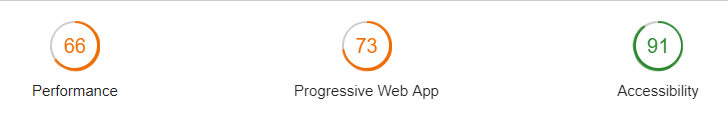
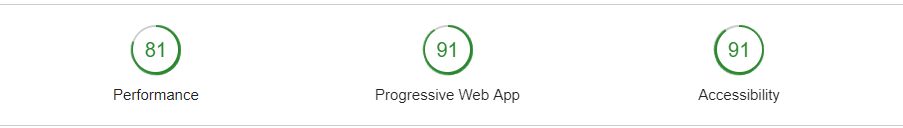
add lazyload

diff --git a/app/restaurant.html b/app/restaurant.html
@@ -5,6 +5,7 @@
   <!-- Meta tags -->
   <meta charset="utf-8">
   <meta name="viewport" content="width=device-width, initial-scale=1.0">
+  <meta name="description" content="Website about Mobile Web Specialist">
   <meta name="theme-color" content="#333"/>
   <link rel="manifest" href="manifest.json">
   <!-- Normalize.css for better cross-browser consistency -->
@@ -12,6 +13,7 @@
   <!-- Main CSS file -->
   <link href="https://fonts.googleapis.com/css?family=Lato:400i|Lobster" rel="stylesheet">
   <link rel="preload" as="style" onload="this.rel='stylesheet'"  href="./assets/css/styles.css">
+  <link rel="preconnect" href="https://maps.googleapis.com">
   <link rel="icon" href="./assets/img/favicon.ico">
   <title>Restaurant Reviews</title>
 </head>
@@ -67,6 +69,8 @@
   <!-- Beginning scripts -->
     <!-- IndexDB -->
     <script src="./assets/js/idb.js"></script>
+      <!-- Lazyload -->
+  <script src="https://cdnjs.cloudflare.com/ajax/libs/vanilla-lazyload/8.7.1/lazyload.min.js"></script>
   <!-- Database helpers -->
   <script src="./assets/js/dbhelper.js"></script>
   <!-- Main javascript file -->

diff --git a/app/index.html b/app/index.html
@@ -5,6 +5,7 @@
   <!-- Meta tags -->
   <meta charset="utf-8">
   <meta name="viewport" content="width=device-width, initial-scale=1.0">
+  <meta name="description" content="Website about Mobile Web Specialist">
   <meta name="theme-color" content="#333"/>
   <link rel="manifest" href="manifest.json">
   <!-- Normalize.css for better cross-browser consistency -->
@@ -12,6 +13,7 @@
   <!-- Main CSS file -->
   <link href="https://fonts.googleapis.com/css?family=Lato:400i|Lobster" rel="stylesheet">
   <link rel="preload" as="style" onload="this.rel='stylesheet'"  href="./assets/css/styles.css">
+  <link rel="preconnect" href="https://maps.googleapis.com">
   <link rel="icon" href="./assets/img/favicon.ico">
   <title>Restaurant Reviews</title>
 </head>
@@ -54,6 +56,8 @@
   <!-- Beginning scripts -->
   <!-- IndexDB -->
   <script src="./assets/js/idb.js"></script>
+  <!-- Lazyload -->
+  <script src="https://cdnjs.cloudflare.com/ajax/libs/vanilla-lazyload/8.7.1/lazyload.min.js"></script>
   <!-- Database helpers -->
   <script src="./assets/js/dbhelper.js"></script>
   <!-- Main javascript file -->

diff --git a/app/assets/js/main.js b/app/assets/js/main.js
@@ -1,8 +1,6 @@
-let restaurants;
-let neighborhoods;
-let cuisines;
-let map;
-var markers = [];
+let restaurants, neighborhoods, cuisines, map;
+let markers = [];
+const myLazyLoad = new LazyLoad();
 
 /**
  * Fetch neighborhoods and cuisines as soon as the page is loaded.

diff --git a/app/assets/js/restaurant_info.js b/app/assets/js/restaurant_info.js
@@ -1,5 +1,6 @@
 let restaurant;
 let map;
+const myLazyLoad = new LazyLoad();
 
 /**
  * Initialize Google map, called from HTML.

diff --git a/README.md b/README.md
@@ -59,8 +59,12 @@ curl "http://localhost:1337/restaurants/{3}"
 ## Automaticaly open your default browser on localhost:8000, where you can view and navigate for the restaurant App.
 
 
-### Lighthouse Result
+### Lighthouse Results
 
 *  HomePage
 
 ![homepage](./img/home.png)
+
+*  Details page
+
+![homepage](./img/details.png)
